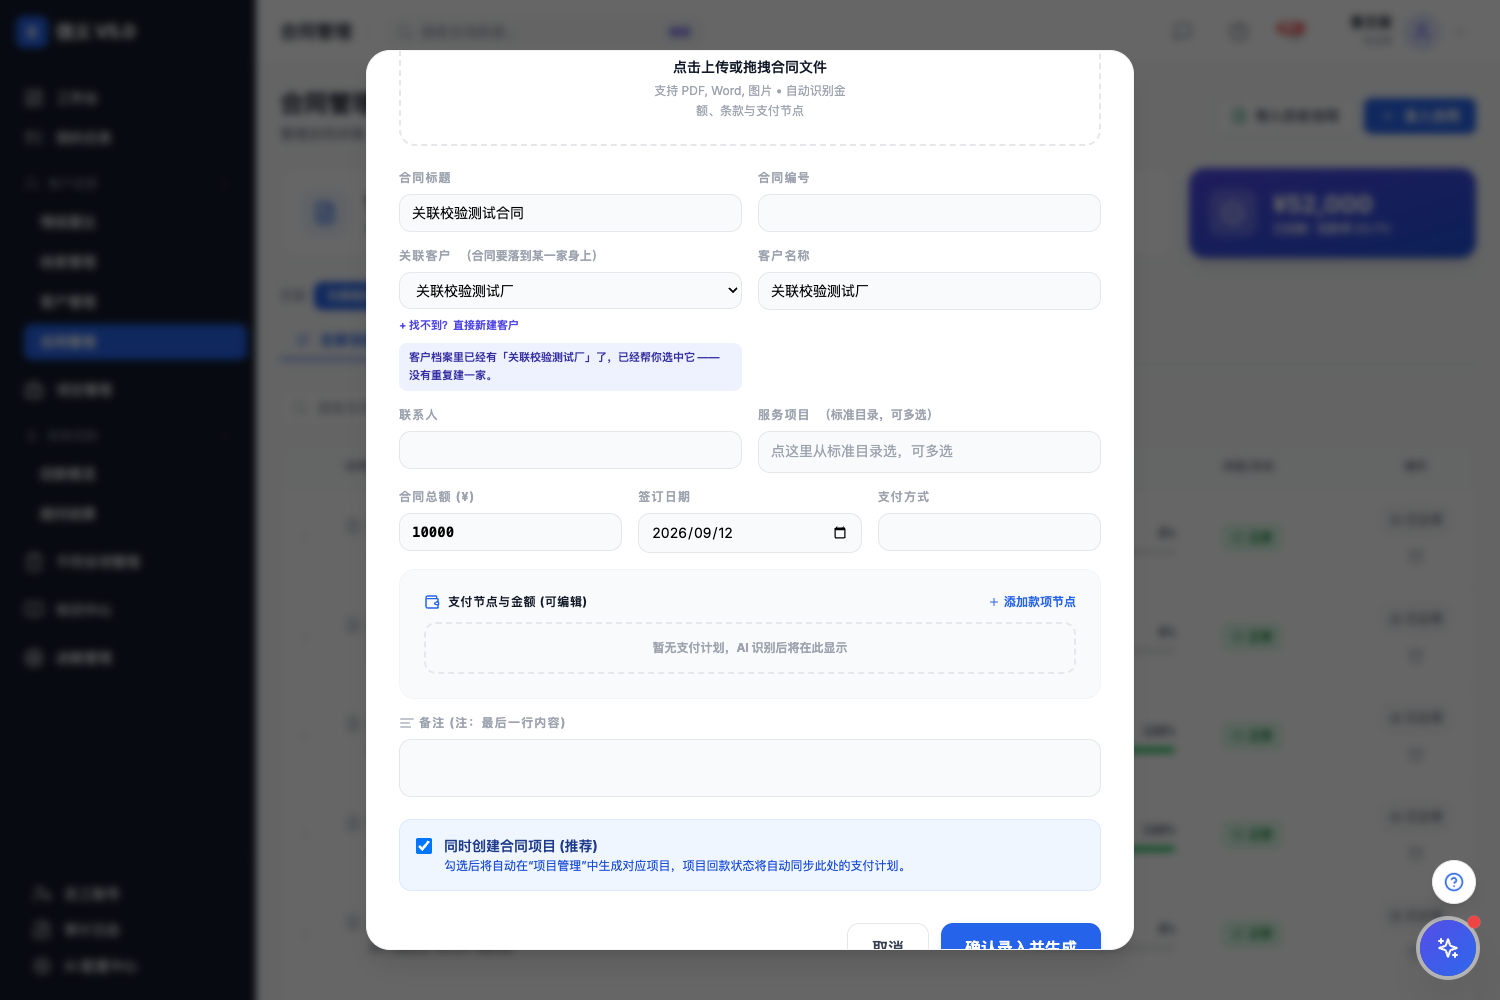
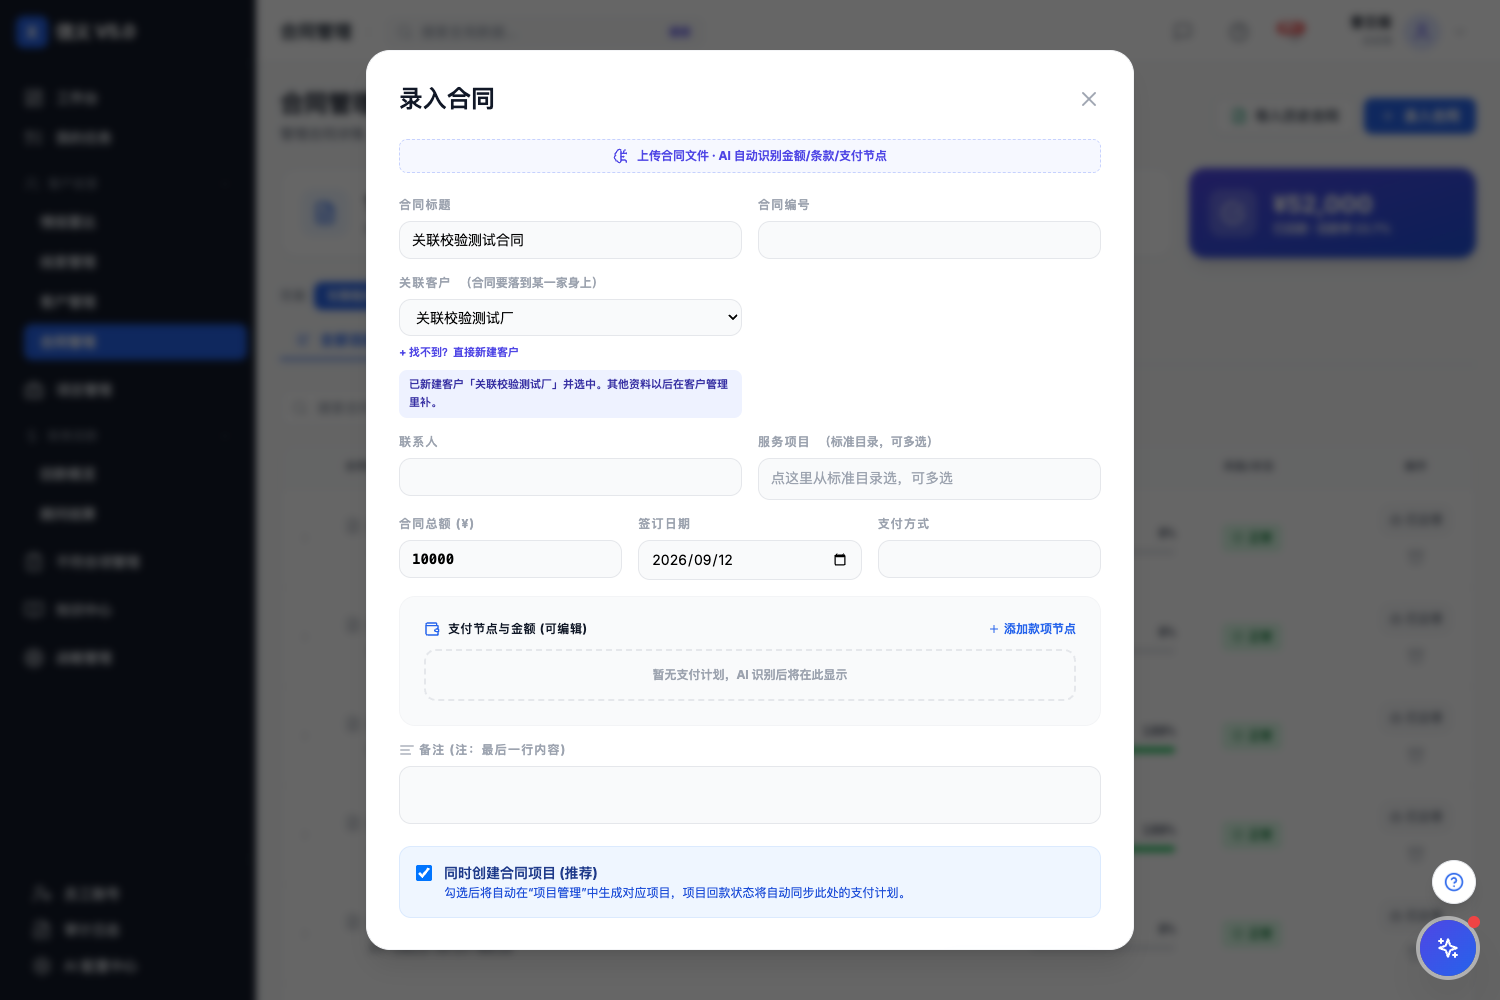
fix: 合同录入弹窗瘦身 —— 去掉重复的「客户名称」，上传区收窄，下拉不再被裁
金恩来两问，两个都成立。

① 「有关联客户又客户名称是不是重复了，或者有点设计过度了」

   是。customerName 在**每一条路径上都是自动填的**：选客户时填、
   当场新建时填、AI 从合同里读出来时填。摆成第二个输入框
   等于把同一件事问两遍 —— 而且两边能填得不一样：
   一改名字 customerId 就被清空，合同又变回没关联，
   昨天刚修好的「三分之一合同没关联客户」会从这儿漏回来。

   成熟做法是一个查找框（Salesforce Account lookup / Dynamics 客户查找）：
   选一家就完事，名字是选完的结果，不是另一个字段。

   所以：
   · 常驻的「客户名称」输入框去掉
   · AI 从合同读到的原名改成对照行「合同上写的是：XXX」，
     没匹配上时给一个「按这个名字建一家」的按钮 —— 让结果可操作
   · 只有选了「不绑定」才出现手填框（那时它是唯一的客户线索），
     并且必填，否则项目名会变成「 - ISO9001项目」

② 「合同录入区域是不是搞的太大了，下面服务项目的下拉框
   常常受尺寸影响，显示不全。要拖到下面才能显示全！」

   上传区那版近 180px 高，在 max-h-[90vh] 的弹窗里吃掉小半屏，
   而它是「用一次」的东西，下面的字段才是每次都要填的 —— 占屏比例反了。
   组件里**本来就有 compact 变体**（一行按钮，实测 34px），
   我差点又新写一个，幸好先看了一眼 —— 这个项目最贵的 bug 都来自"第二份"。

   下拉被裁是另一个原因：它是 absolute，而弹窗是 overflow-y-auto，
   字段偏下时列表被容器裁掉。改成打开前量一下下方空间，
   不够就往上开（原生 select 和 Radix/Headless UI 的默认行为）。

   顺带去掉副标题上的 max-w-[200px] —— 它把
   「自动识别金额、条款与支付节点」硬折成「自动识别金 / 额、条款…」。

实测 800/900/1000 三个视口高度：上传区 34px、下拉整块在屏内、
关联客户那条链路照旧全过。581 条测试全过。

diff --git a/pages/Contracts.tsx b/pages/Contracts.tsx
@@ -4,7 +4,7 @@ import { SAMPLE_CONTRACT } from '../src/modules/onboarding/sampleRecords';
 import React, { useMemo, useRef, useState, useEffect } from 'react';
 import { useApp } from '../context/AppContext';
 import { SampleTr } from '../components/SampleRow';
-import { ChevronDown, ChevronRight, FileText, CheckCircle, Clock, AlertTriangle, Upload, X, Loader2, Plus, Wallet, AlignLeft, Trash2, AlertCircle, Briefcase, Archive, Paperclip, Download, Eye, ShieldAlert, ShieldCheck, Zap, ToggleLeft, ToggleRight, PlayCircle, BrainCircuit, BookOpen, Search, FileSpreadsheet } from 'lucide-react';
+import { ChevronDown, ChevronRight, FileText, CheckCircle, Clock, AlertTriangle, Upload, X, Loader2, Plus, Wallet, AlignLeft, Trash2, AlertCircle, Briefcase, Archive, Paperclip, Download, Eye, ShieldAlert, ShieldCheck, Zap, ToggleLeft, ToggleRight, PlayCircle, BrainCircuit, BookOpen, Search, FileSpreadsheet, Sparkles} from 'lucide-react';
 import { useLocation, useNavigate } from 'react-router-dom';
 import { aiService } from '../services/aiService'; 
 import { IngestionUploader } from '../components/IngestionUploader';
@@ -52,6 +52,8 @@ const Contracts = () => {
     只给结论不给依据，错了没人发现 —— 这是自由文本时代的老问题。
   */
   const [aiServiceRaw, setAiServiceRaw] = useState('');
+  /** AI 从合同里读到的客户**原名** —— 摆出来对照，不再当成第二个输入框 */
+  const [aiContractCustomerName, setAiContractCustomerName] = useState('');
   /*
     范围：默认只看和自己有关的，需要时切全公司。
     顾问原来根本没有这个开关 —— 不是「默认收起」，是「看不到」。
@@ -834,6 +836,7 @@ const Contracts = () => {
           }));
 
           setAiServiceRaw(finalServiceLine || '');
+          setAiContractCustomerName(finalCustomer || '');
 
           if (Array.isArray(payload?.paymentPlan)) {
              const newReceivables: Receivable[] = payload.paymentPlan
@@ -912,6 +915,11 @@ const Contracts = () => {
       现在默认改成「— 选一家客户 —」，漏了就在这里提醒，
       并写清代价 —— 代价不在合同页，在客户 360 和回款统计那边。
     */
+    if (formData.customerId === '__none__' && !String(formData.customerName || '').trim()) {
+      alert('选了「不绑定」就得写上客户名称 —— 否则这份合同在列表里认不出是谁的，'
+        + '由它生成的项目也会没有名字。');
+      return;
+    }
     if (!String(formData.customerId || '').trim()) {
       alert('这份合同还没落到某一家客户身上。\n\n不关联的话：客户档案里看不到这份合同、回款也算不进这家的累计，'
         + '以后查「这家做过什么」会缺这一笔。\n\n下拉里选一家；档案里还没有就点「找不到？直接新建客户」。'
@@ -1584,7 +1592,20 @@ const Contracts = () => {
                      <div className="mb-6">
                         <IngestionUploader 
                             source="contract"
-                            label="点击上传或拖拽合同文件"
+                            /*
+                              弹窗里用 compact（组件里本来就有这个变体，
+                              一行按钮，约 40px）。
+
+                              金恩来：「合同录入区域是不是搞的太大了，
+                              下面服务项目的下拉框常常受尺寸影响，显示不全，
+                              要拖到下面才能显示全」。
+
+                              大尺寸那版将近 180px 高，在 max-h-[90vh] 的弹窗里
+                              一个人吃掉小半屏 —— 而它是「用一次」的东西，
+                              下面的字段才是每次都要填的。占屏比例反了。
+                            */
+                            compact
+                            label="上传合同文件 · AI 自动识别金额/条款/支付节点"
                             subLabel="支持 PDF, Word, 图片 • 自动识别金额、条款与支付节点"
                             disabled={isUploading || !createContractPerm.allowed}
                             onSuccess={(result, file) => {
@@ -1633,6 +1654,7 @@ const Contracts = () => {
                                   ? serviceItemsFromAI.map(item => String(item.standardName || item.name)).join(' / ')
                                   : (data.serviceLine || '');
                                 setAiServiceRaw(normalizedServiceLine || '');
+                                setAiContractCustomerName(String(data.customerName || ''));
                                 const matchedCustomer = findCustomerByName(String(data.customerName || ''));
                                 setFormData(prev => ({
                                     ...prev,
@@ -1771,22 +1793,65 @@ const Contracts = () => {
                             )}
                           </div>
                           <div>
-                            <label className="block text-xs font-black text-gray-400 uppercase tracking-widest mb-2">客户名称</label>
-                            <input
-                              required
-                              type="text"
-                              className={`w-full px-3 py-2 border rounded-xl focus:ring-2 focus:ring-blue-500/20 focus:outline-none text-sm ${hasSubjectMismatch ? 'border-yellow-400 bg-yellow-50' : 'border-gray-200 bg-gray-50'}`}
-                              value={formData.customerName}
-                              onChange={e => {
-                                const nextName = e.target.value;
-                                const matched = findCustomerByName(nextName);
-                                setFormData({
-                                  ...formData,
-                                  customerName: nextName,
-                                  customerId: matched?.id || ''
-                                });
-                              }}
-                            />
+                            {/*
+                              ── 「客户名称」不再是一个要人填的框（2026-09-12）──────
+
+                              金恩来：「有关联客户又客户名称是不是重复了，
+                              或者有点设计过度了」。
+
+                              他说得对。customerName 在**每一条路径上都是自动填的**：
+                              选客户时填、当场新建时填、AI 从合同里读出来时填。
+                              把它摆成第二个输入框，等于把同一件事问两遍，
+                              而且两边还能填得不一样（改了名字 customerId 就被清空，
+                              合同又变回没关联 —— 我们刚修好的那个问题会从这儿漏回来）。
+
+                              成熟做法是**一个查找框**（Salesforce 的 Account lookup、
+                              Dynamics 的客户查找）：选一家就完事，
+                              名字是选完的结果，不是另一个要填的字段。
+
+                              这里保留的是 AI 的价值：合同上写的名字如果和选中的不一致，
+                              把原话摆出来，并给一个「按合同上的名字建一家」的口子 ——
+                              让 AI 的结果**可操作**，而不是塞进一个框里等人核对。
+                            */}
+                            {/*
+                              选了「不绑定」才需要手填名字 —— 这时它是**唯一**的客户线索
+                              （项目名、列表显示都靠它）。绑定了就不需要：名字是选出来的结果。
+
+                              这就是「字段只在它承载信息的时候出现」：
+                              常态下少一个框，例外时不丢信息。
+                            */}
+                            {formData.customerId === '__none__' && (
+                              <div className="mb-2">
+                                <label className="mb-1 block text-xs font-black uppercase tracking-widest text-gray-400">
+                                  客户名称 <span className="ml-1 font-bold normal-case tracking-normal text-amber-600">（不绑定时必填，否则这份合同认不出是谁的）</span>
+                                </label>
+                                <input
+                                  type="text"
+                                  className="w-full rounded-xl border border-amber-300 bg-amber-50/40 px-3 py-2 text-sm outline-none focus:ring-2 focus:ring-amber-400/20"
+                                  value={formData.customerName}
+                                  onChange={e => setFormData({ ...formData, customerName: e.target.value })}
+                                  placeholder="照合同甲方全称写"
+                                />
+                              </div>
+                            )}
+                            {aiContractCustomerName && (
+                              <div className="rounded-xl bg-indigo-50/70 px-3 py-2 text-[11px] font-bold leading-relaxed text-indigo-900">
+                                <Sparkles className="mr-1 inline h-3 w-3" />
+                                合同上写的是：{aiContractCustomerName}
+                                {!formData.customerId && (
+                                  <button
+                                    type="button"
+                                    onClick={() => { setShowNewContractCustomer(true); setNewContractCustomerName(aiContractCustomerName); }}
+                                    className="ml-2 rounded bg-indigo-600 px-2 py-0.5 text-[11px] font-black text-white hover:bg-indigo-700"
+                                  >
+                                    按这个名字建一家
+                                  </button>
+                                )}
+                                {hasSubjectMismatch && (
+                                  <span className="ml-1 text-amber-700">· 和选中的客户对不上，确认一下</span>
+                                )}
+                              </div>
+                            )}
                           </div>
                         </div>
                         <div className="grid grid-cols-2 gap-4">

diff --git a/tests/contract-visibility.test.js b/tests/contract-visibility.test.js
@@ -129,3 +129,64 @@ test('服务选择器要能选「公司用过但不在目录里」的那些', ()
   const page = code('pages/Contracts.tsx');
   assert.match(page, /usedServiceNames/, '合同页没有把历史服务名喂给选择器');
 });
+
+test('「客户名称」只在不绑定时出现 —— 平时它是选出来的结果，不是要填的字段', () => {
+  /*
+    2026-09-12 金恩来：「有关联客户又客户名称是不是重复了，或者有点设计过度了」。
+
+    他说得对。customerName 在**每一条路径上都是自动填的**：
+    选客户时填、当场新建时填、AI 从合同里读出来时填。
+    摆成第二个输入框等于把同一件事问两遍，而且两边能填得不一样 ——
+    改了名字 customerId 就被清空，合同又变回没关联，
+    我们刚修好的问题会从这儿漏回来。
+
+    成熟做法是一个查找框（Salesforce Account lookup）：选一家就完事。
+    唯一真需要手填名字的时刻是「明确不绑定任何客户」——
+    那时它是唯一的客户线索。
+  */
+  const page = code('pages/Contracts.tsx');
+  assert.ok(!/<label[^>]*>客户名称<\/label>/.test(page),
+    '「客户名称」又变回一个常驻的输入框了');
+  assert.match(page, /formData\.customerId === '__none__' &&[\s\S]{0,400}?customerName/,
+    '不绑定时没有给填名字的地方 —— 那份合同会认不出是谁的');
+  assert.match(page, /选了「不绑定」就得写上客户名称/, '不绑定时没有校验名字');
+});
+
+test('AI 读到的客户名要摆出来对照，并且可操作', () => {
+  /*
+    去掉输入框不能把 AI 的结果一起丢掉。
+    合同上的名字如果和选中的对不上，要摆出原话；没匹配上的，
+    给一个「按这个名字建一家」的按钮 —— 让结果可操作，
+    而不是塞进一个框里等人自己核对。
+  */
+  const page = code('pages/Contracts.tsx');
+  assert.match(page, /合同上写的是：/, '没有把合同原文里的客户名摆出来');
+  assert.match(page, /按这个名字建一家/, '没匹配上时没有给一键新建的口子');
+});
+
+test('弹窗里的上传区用 compact，别吃掉半屏', () => {
+  /*
+    他：「合同录入区域是不是搞的太大了，下面服务项目的下拉框
+    常常受尺寸影响，显示不全。要拖到下面才能显示全！」
+
+    大尺寸那版近 180px 高，在 max-h-[90vh] 的弹窗里吃掉小半屏。
+    组件本来就有 compact 变体（一行按钮，实测 34px）——
+    我差点又新写一个，幸好先看了一眼。
+  */
+  const page = code('pages/Contracts.tsx');
+  const at = page.indexOf('<IngestionUploader');
+  const block = page.slice(at, at + 500);
+  assert.match(block, /\bcompact\b/, '合同弹窗里的上传区没用 compact');
+});
+
+test('服务下拉放不下就往上开，不许被滚动容器裁掉', () => {
+  /*
+    下拉是 absolute，而弹窗是 max-h-[90vh] + overflow-y-auto ——
+    字段在偏下位置时，列表会被裁掉一半，人得先滚动才能看全，选完再滚回来。
+    原生 select 和成熟组件库都是「下面不够就往上开」。
+  */
+  const picker = code('components/ServicePicker.tsx');
+  assert.match(picker, /openUp/, '下拉没有判断方向');
+  assert.match(picker, /bottom-full/, '没有往上开的那一档');
+  assert.match(picker, /window\.innerHeight - r\.bottom/, '没有量下方剩余空间');
+});

diff --git a/components/ServicePicker.tsx b/components/ServicePicker.tsx
@@ -58,6 +58,31 @@ export const ServicePicker: React.FC<{
   const boxRef = useRef<HTMLDivElement>(null);
 
   /*
+    ── 下面放不下就往上开（2026-09-12）──────────────────────────
+
+    金恩来：「下面服务项目的下拉框，常常受尺寸影响，显示不全。
+    要拖到下面才能显示全！」
+
+    这个字段在弹窗偏下的位置，而弹窗本身是 max-h-[90vh] + overflow-y-auto。
+    下拉是 absolute 定位的，**会被那个滚动容器裁掉** ——
+    人看到半截列表，得先滚动才能看全，选完还要滚回去。
+
+    做法：打开的瞬间量一下下方还剩多少空间，不够就往上开。
+    这是原生 select 和成熟组件库（Radix/Headless UI）的默认行为，
+    人不会觉得奇怪 —— 奇怪的是被裁掉那一半。
+  */
+  const [openUp, setOpenUp] = useState(false);
+  const decideDirection = () => {
+    const el = boxRef.current;
+    if (!el) return;
+    const r = el.getBoundingClientRect();
+    const below = window.innerHeight - r.bottom;
+    const above = r.top;
+    // 下面不够 280px、而上面比下面宽裕，就往上开
+    setOpenUp(below < 280 && above > below);
+  };
+
+  /*
     已选 = 把 value 那串字反解回来。
     存的是标准名而不是 id：合同的 serviceLine 一直是字符串，
     改成存 id 要动库结构和所有读它的地方；而名字既然来自固定目录，
@@ -115,7 +140,7 @@ export const ServicePicker: React.FC<{
       {/* 已选的摆在最上面 —— 人最想确认的是「我选了什么」 */}
       <div
         className="min-h-[42px] w-full cursor-text rounded-xl border border-gray-200 bg-gray-50 px-2 py-1.5 focus-within:ring-2 focus-within:ring-blue-500/20"
-        onClick={() => setOpen(true)}
+        onClick={() => { decideDirection(); setOpen(true); }}
       >
         {selectedNames.length === 0 ? (
           <span className="px-1 text-sm text-gray-400">点这里从标准目录选，可多选</span>
@@ -176,7 +201,11 @@ export const ServicePicker: React.FC<{
         <>
           {/* 点空白处收起。data-dismiss-layer 的原因见 HelpHub 的 visibleModals() */}
           <div data-dismiss-layer="1" className="fixed inset-0 z-40" onClick={() => setOpen(false)} />
-          <div className="absolute left-0 right-0 z-50 mt-1 max-h-80 overflow-y-auto rounded-xl border border-gray-200 bg-white shadow-2xl">
+          <div
+            className={`absolute left-0 right-0 z-50 max-h-72 overflow-y-auto rounded-xl border border-gray-200 bg-white shadow-2xl ${
+              openUp ? 'bottom-full mb-1' : 'top-full mt-1'
+            }`}
+          >
             <div className="sticky top-0 flex items-center gap-2 border-b border-gray-100 bg-white px-3 py-2">
               <Search className="h-4 w-4 shrink-0 text-gray-400" />
               <input

diff --git a/components/IngestionUploader.tsx b/components/IngestionUploader.tsx
@@ -157,7 +157,9 @@ export const IngestionUploader: React.FC<IngestionUploaderProps> = ({
           <p className={`text-sm font-bold ${errorMsg ? 'text-red-600' : 'text-gray-900'}`}>
             {isProcessing ? 'AI 正在智能分析...' : errorMsg || label}
           </p>
-          <p className="text-xs text-gray-400 max-w-[200px] mx-auto leading-relaxed">
+          {/* 原来套着 max-w-[200px]，把「自动识别金额、条款与支付节点」
+              硬折成「自动识别金 / 额、条款…」—— 断在词中间。宽度交给容器。 */}
+          <p className="text-xs text-gray-400 leading-relaxed">
             {isProcessing ? '正在极速分析中...' : subLabel}
           </p>
         </div>
